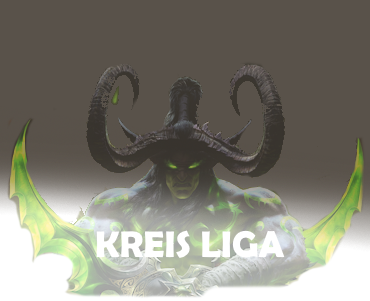
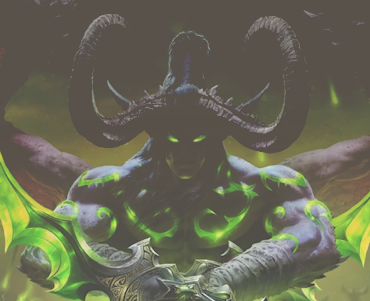
fix stuff

diff --git a/src/components/kl/KLPlayerBanner.vue b/src/components/kl/KLPlayerBanner.vue
@@ -461,14 +461,18 @@ const avg = computed(() =>
     </v-card-item>
 
     <v-card-actions>
-      <v-btn
-        title="Open W3Champions Profile Page"
-        color="transparent"
-        block
-        variant="flat"
-        @click="() => open(player.battleTag)"
-        ><img :src="w3ciconDark" height="22px"
-      /></v-btn>
+      <v-row>
+        <v-col cols="6" class="text-center">
+          <v-btn
+            title="Open W3Champions Profile Page"
+            color="transparent"
+            variant="flat"
+            @click="() => open(player.battleTag)"
+            ><img :src="w3ciconDark" height="22px"
+          /></v-btn>
+        </v-col>
+        <v-col cols="6" class="text-center fancy">KREIS LIGA</v-col>
+      </v-row>
     </v-card-actions>
   </v-card>
 </template>
@@ -530,6 +534,16 @@ const avg = computed(() =>
     200%0,
     0 0;
   transition-duration: 1.5s;
+}
+
+.fancy {
+  font-weight: bold;
+  vertical-align: middle;
+  margin-top: 10px;
+  text-shadow:
+    0 0 1px white,
+    0 0 5px gold,
+    0 0 10px gold;
 }
 
 :global(.custom-tooltip) {

diff --git a/src/stores/onlyfangs.ts b/src/stores/onlyfangs.ts
@@ -23,7 +23,7 @@ const participants = [
   "TheViper#2786",
   "T90#???",
   "RedPanda#2507",
-  "Turin#???",
+  "Turin#1177",
   "Lacari#1890",
   "Fuccboiii69#2102", // TommyKayLIVE
 ];
